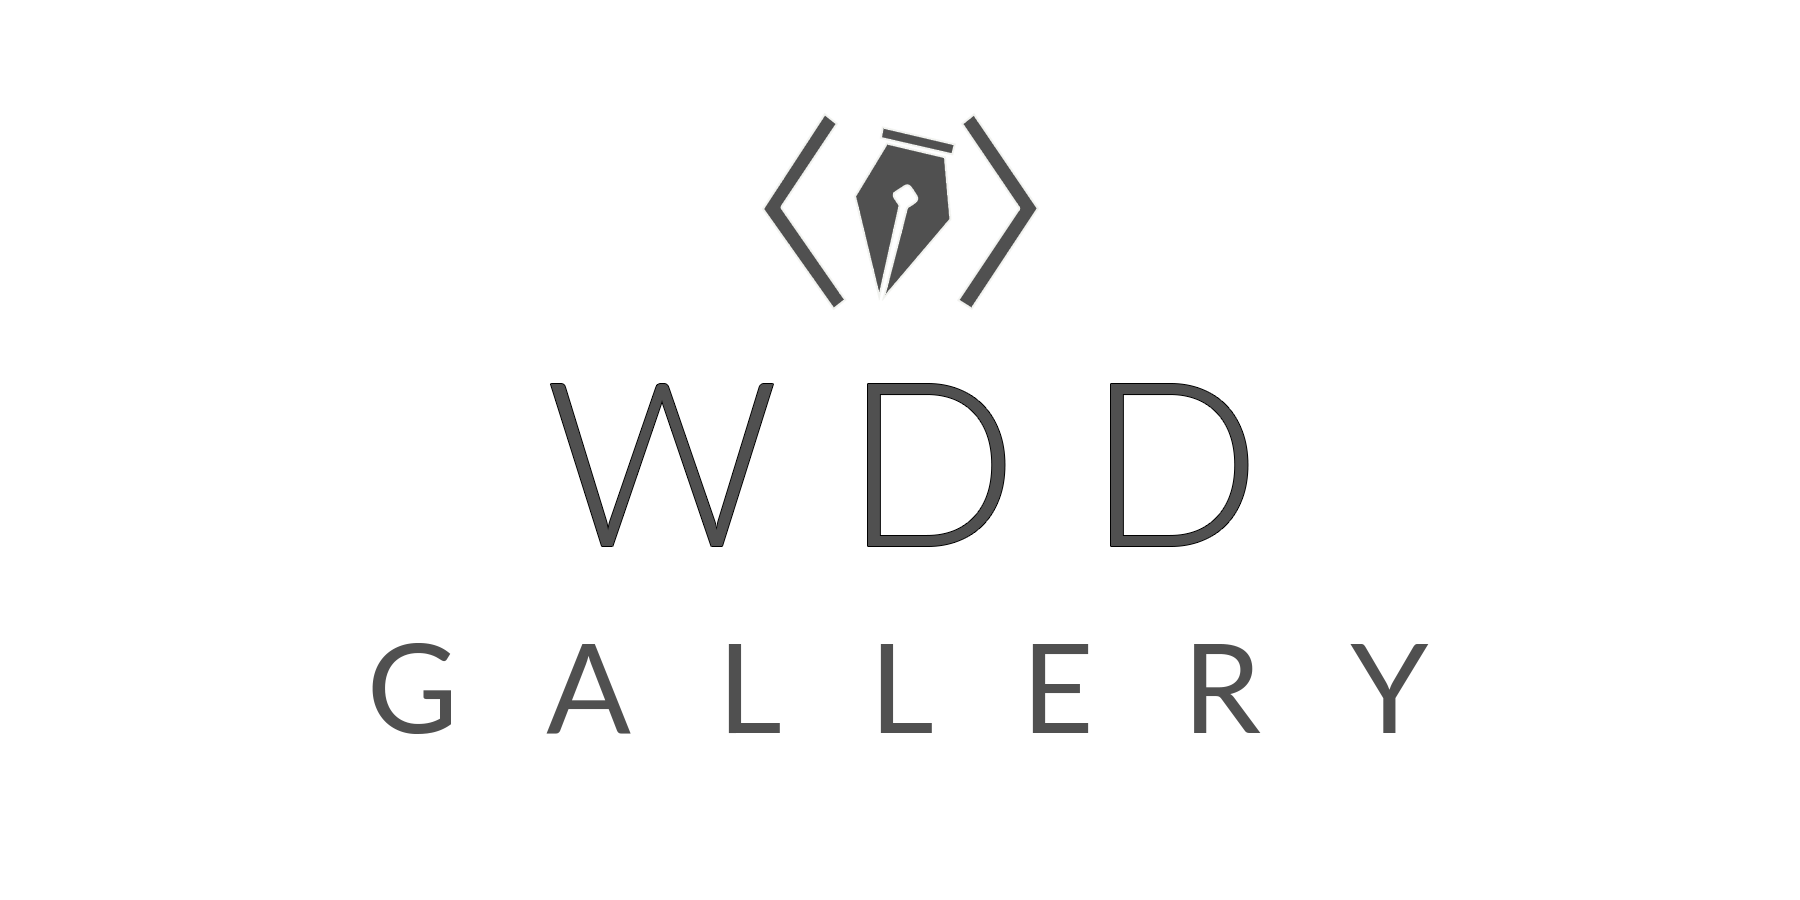
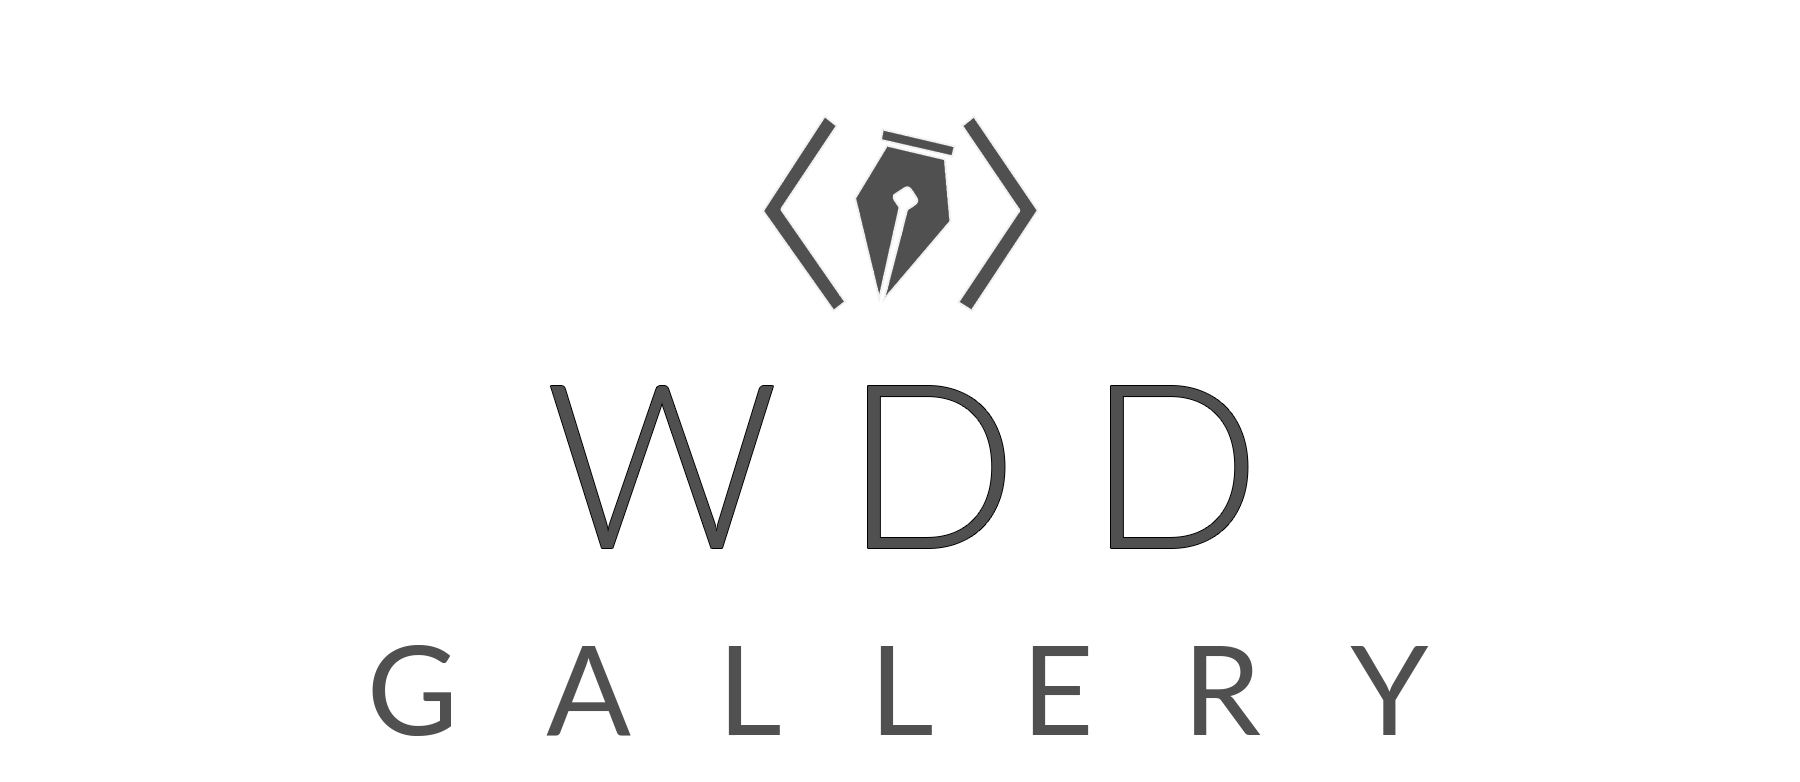
skeleton html + basic css

diff --git a/index.html b/index.html
@@ -20,12 +20,115 @@
 <body>
 	<div class="wrapper">
 		<header>
+			<div id="logo">
+				<img src="img/WDD gallery.png">
+			</div>
+			<div id="subheader">Lorem ipsum dolor sit amet, consectetur adipiscing elit. Nullam accumsan elementum felis. Proin dui purus, mollis nec orci tincidunt.</div>
 		</header>
 
 		<main>
+			<div class="container">
+
+			<div class="item">
+				<img src="img/placeholder.jpg">
+				<div class="description">
+					<div class="title">Lorem Ipsum Dolor (Fall XXXX)</div>
+					<div class="by">By: Lorem Ipsum</div>
+					<div class="view-site">View Site</div>
+				</div>
+			</div>
+
+			<div class="item">
+				<img src="img/placeholder.jpg">
+				<div class="description">
+					<div class="title">Lorem Ipsum Dolor (Fall XXXX)</div>
+					<div class="by">By: Lorem Ipsum</div>
+					<div class="view-site">View Site</div>
+				</div>
+			</div>
+
+			<div class="item">
+				<img src="img/placeholder.jpg">
+				<div class="description">
+					<div class="title">Lorem Ipsum Dolor (Fall XXXX)</div>
+					<div class="by">By: Lorem Ipsum</div>
+					<div class="view-site">View Site</div>
+				</div>
+			</div>
+
+			<div class="item">
+				<img src="img/placeholder.jpg">
+				<div class="description">
+					<div class="title">Lorem Ipsum Dolor (Fall XXXX)</div>
+					<div class="by">By: Lorem Ipsum</div>
+					<div class="view-site">View Site</div>
+				</div>
+			</div>
+
+			<div class="item">
+				<img src="img/placeholder.jpg">
+				<div class="description">
+					<div class="title">Lorem Ipsum Dolor (Fall XXXX)</div>
+					<div class="by">By: Lorem Ipsum</div>
+					<div class="view-site">View Site</div>
+				</div>
+			</div>
+
+			<div class="item">
+				<img src="img/placeholder.jpg">
+				<div class="description">
+					<div class="title">Lorem Ipsum Dolor (Fall XXXX)</div>
+					<div class="by">By: Lorem Ipsum</div>
+					<div class="view-site">View Site</div>
+				</div>
+			</div>
+
+			<div class="item">
+				<img src="img/placeholder.jpg">
+				<div class="description">
+					<div class="title">Lorem Ipsum Dolor (Fall XXXX)</div>
+					<div class="by">By: Lorem Ipsum</div>
+					<div class="view-site">View Site</div>
+				</div>
+			</div>
+
+			<div class="item">
+				<img src="img/placeholder.jpg">
+				<div class="description">
+					<div class="title">Lorem Ipsum Dolor (Fall XXXX)</div>
+					<div class="by">By: Lorem Ipsum</div>
+					<div class="view-site">View Site</div>
+				</div>
+			</div>
+
+			<div class="item">
+				<img src="img/placeholder.jpg">
+				<div class="description">
+					<div class="title">Lorem Ipsum Dolor (Fall XXXX)</div>
+					<div class="by">By: Lorem Ipsum</div>
+					<div class="view-site">View Site</div>
+				</div>
+			</div>
+
+			<div class="item">
+				<img src="img/placeholder.jpg">
+				<div class="description">
+					<div class="title">Lorem Ipsum Dolor (Fall XXXX)</div>
+					<div class="by">By: Lorem Ipsum</div>
+					<div class="view-site">View Site</div>
+				</div>
+			</div>
+
+		</div> <!-- container -->
 		</main>
 
 		<footer>
+			<p id="about">Lorem ipsum dolor sit amet, consectetur adipiscing elit. Nullam accumsan elementum felis. Proin dui purus, mollis nec orci tincidunt, ultrices suscipit lorem. Sed eget tempor massa, nec egestas felis. Pellentesque nec felis a neque scelerisque cursus. Ut tristique in tortor id viverra. Praesent aliquam, tortor nec dapibus lobortis, nisi justo posuere sapien, ac luctus turpis lacus eget nisl.</p>
+			<div id="social-media-container">
+				<div class="social-media-item"></div>
+				<div class="social-media-item"></div>
+				<div class="social-media-item"></div>
+			</div>
 		</footer>
 	</div> <!-- wrapper -->
 </body>

diff --git a/css/style.css b/css/style.css
@@ -1,0 +1,179 @@
+/* ============================================================
+  HEADER
+============================================================ */
+
+#logo img{
+	display: block;
+	margin: 0 auto;
+	width: 300px;
+}
+
+#subheader{
+	margin: 0 60px;
+	margin-top: 20px;
+	text-align: center;
+	font-size: 16px;
+}
+
+
+/* ============================================================
+  MAIN
+============================================================ */
+
+/* overriding settings in base.css */
+main{
+	margin: 0;
+}
+
+.container{
+	max-width: 400px;
+	padding: 0;
+}
+
+.item{
+	display: block;
+	overflow: hidden;
+	margin: 15px auto;
+	width: 300px;
+}
+
+.item img{
+	width: inherit;
+}
+
+.description {
+	height: 70px;
+	width: 100%;
+	margin-top: -70px;
+	padding: 10px;
+	opacity: 0;
+	background: rgba(255,255,255,.75);
+	color: #505050;
+}
+
+/* start  main hover effects */
+.description {
+	-webkit-transform: translateY(100%);
+	-moz-transform: translateY(100%);
+	-ms-transform: translateY(100%);
+	transform: translateY(100%);
+	-webkit-backface-visibility: hidden;
+	-moz-backface-visibility: hidden;
+	backface-visibility: hidden;
+	-webkit-transition: -webkit-transform 0.7s, opacity 0.1s 0.3s;
+	-moz-transition: -moz-transform 0.7s, opacity 0.1s 0.3s;
+	transition: transform 0.7s, opacity 0.1s 0.3s;
+}
+
+.item:hover .description{
+	-webkit-transform: translateY(0px);
+	-moz-transform: translateY(0px);
+	-ms-transform: translateY(0px);
+	transform: translateY(0px);
+	-webkit-transition: -webkit-transform 0.7s, opacity 0.1s;
+	-moz-transition: -moz-transform 0.7s, opacity 0.1s;
+	transition: transform 0.7s, opacity 0.1s;
+}
+
+.item:hover .description{
+	opacity: 1;
+}
+/* end hover effects */
+
+.title{
+	font-weight: 400;
+}
+
+.view-site{
+	font-size: 12px;
+	padding: 5px;
+	background: #505050;
+	color: #f3f3f3;
+	text-align: center;
+	border-radius: 5px;
+	position: absolute;
+	right: 10;
+	bottom: 10;
+	opacity: .75;
+	transition: 0.3s;
+    -moz-transition: 0.3s;
+    -webkit-transition: 0.3s;
+}
+
+.view-site:hover{
+	opacity: 1;
+}
+
+
+/* ============================================================
+  FOOTER
+============================================================ */
+
+#about{
+	width: 300px;
+	display: block;
+	margin: 0 auto;
+}
+
+#social-media-item{
+	display: inline-block;
+}
+
+
+/* ============================================================
+  MEDIA QUERIES 600-960PX
+============================================================ */
+@media all and (min-width: 600px) {
+
+	.container{
+		max-width: 600px;
+	}
+
+	#logo img{
+		width: 400px;
+	}
+
+	.item{
+		width: 250px;
+		display: inline-block;
+		margin: 24px 24px;
+	}
+
+	.item img{
+		width: inherit;
+	}
+
+}
+
+/* ============================================================
+  MEDIA QUERIES >960PX
+============================================================ */
+@media all and (min-width: 960px) {
+
+	.container{
+		max-width: 960px;
+	}
+
+	#logo img{
+		width: 500px;
+	}
+
+	.item{
+		width: 415px;
+		display: inline-block;
+		margin: 30px 30px;
+	}
+
+	.item img{
+		width: inherit;
+	}
+
+	#about{
+		width: 400px;
+	}
+
+	#social-media-container{
+		display: inline-block;
+	}
+
+}

diff --git a/css/base.css b/css/base.css
@@ -48,8 +48,9 @@ footer, header, hgroup, menu, nav, section {
 /* ============================================================
   HTML & BODY
 ============================================================ */
+
 body {
-  background-color: #f2f1ef;
+  background-color: #f3f3f3;
   color: #505050;
   font-size: 14px;
   line-height: 1.5;
@@ -71,7 +72,7 @@ header{
 
 main {
   display: block;
-  background-color: #f2f1ef;
+  background-color: #f3f3f3;
   margin: 20px 0;
 }
 
@@ -90,7 +91,7 @@ p{
   FOOTER
 ============================================================ */
 footer {
-  padding: 20px 0;
+  padding: 40px 0;
   background-color: #1e1e1e;
   color: #f2f1ef;
   margin-top: 20px;
